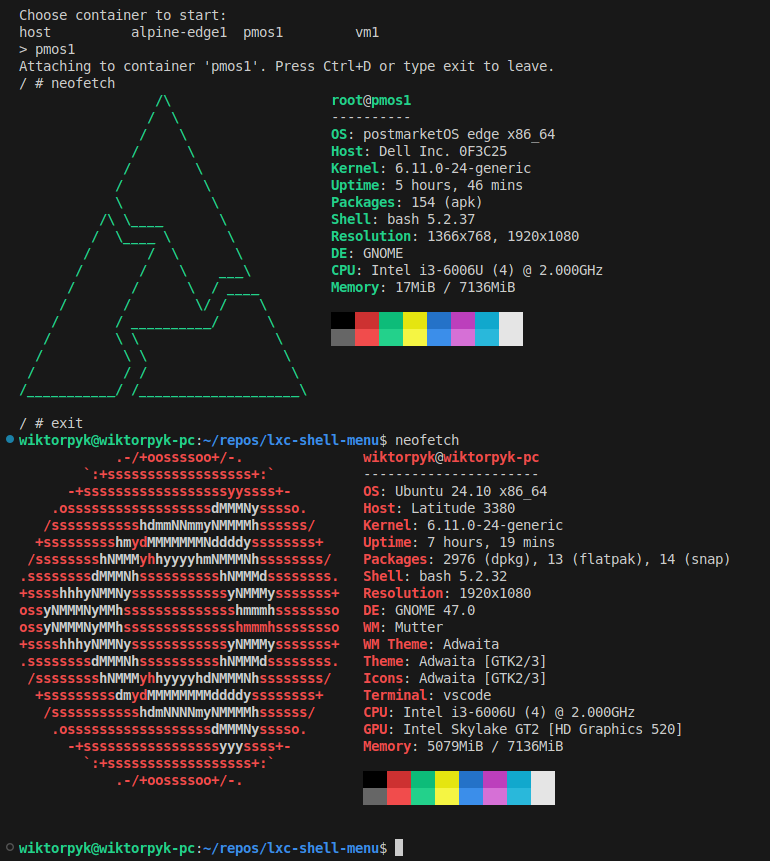
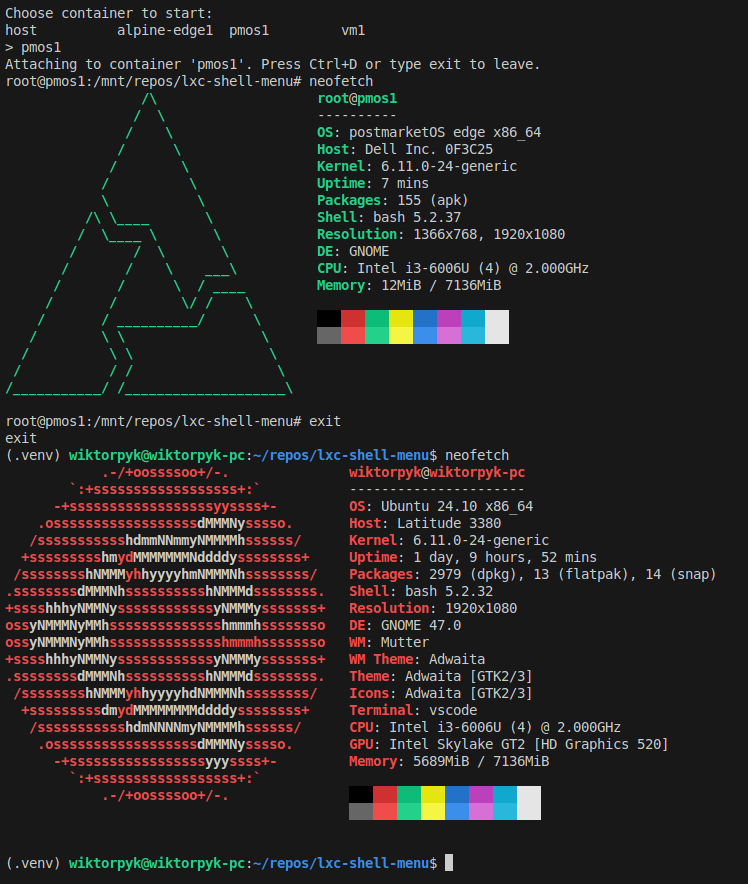
Added cwd transferring to container

diff --git a/lxc-shell-menu.py b/lxc-shell-menu.py
@@ -70,6 +70,20 @@ def install():
     except Exception as e:
         print(f"Error adding sudoers rule: {e}")
 
+def parse_mount_config(line):
+    parts = line.split()
+    if len(parts) >= 5:
+        host_path = parts[2].rstrip('/')
+        mount_target = parts[3].rstrip('/')     # this is the host-side mount dir
+        host_cwd = os.getcwd().rstrip('/')
+
+        if host_cwd.startswith(host_path):
+            rel = os.path.relpath(host_cwd, host_path)
+            mount_point = '/' + os.path.basename(mount_target)
+            container_path = os.path.join(mount_point, rel)
+            return container_path
+    return None
+
 def container_interface():
     if os.geteuid() != 0:
         subprocess.run(
@@ -120,28 +134,56 @@ def container_interface():
         print(''.join(row_items))
 
     while True:
-        choice = input("> ").strip()
-        if choice == "host":
+        container_name = input("> ").strip()
+        if container_name == "host":
             sys.exit(0)
-        elif choice in containers:
+        elif container_name in containers:
             break
         else:
-            print(f"Invalid choice: {choice}. Please choose from the list above.")
+            print(f"Invalid choice: {container_name}. Please choose from the list above.")
 
     try:
         subprocess.run(
-            ["lxc-start", choice], 
+            ["lxc-start", container_name], 
             check=True,
             stderr=subprocess.DEVNULL
         )
     except subprocess.CalledProcessError as e:
         sys.exit(e.returncode)
 
-    print(f"Attaching to container '{choice}'. Press Ctrl+D or type exit to leave.")
-    subprocess.run(
-        ["lxc-attach", "-n", choice], 
-        check=False
-    )
+    host_path = None
+    destination_path = None
+    config_path = f"/var/lib/lxc/{container_name}/config"
+
+    try:
+        with open(config_path, "r") as config_file:
+            for line in config_file:
+                if line.startswith("lxc.mount.entry"):
+                    destination_path = parse_mount_config(line)
+    except FileNotFoundError:
+        print(f"Config file not found: {config_path}")
+        return
+    except Exception as e:
+        print(f"Error: {e}")
+
+    if destination_path is None:
+        print(
+             "To persist your current working directory in the container, add the correct configuration to container's config file.\n"
+            f"The configuration file is located at {config_path}\n"
+             "Example:\n"
+            f"lxc.mount.entry = /home/{os.getlogin()}/ mnt/ none bind,create=dir 0 0\n"
+        )
+
+    print(f"Attaching to container '{container_name}'. Press Ctrl+D or type exit to leave.")
+    shell = "/bin/bash"
+    if destination_path is None:
+        subprocess.run(
+            ["lxc-attach", "-n", container_name, "--", shell]
+        )
+    else:
+        subprocess.run(
+            ["lxc-attach", "-n", container_name, "--", shell, "-c", f"cd {destination_path} && {shell}"]
+        )
 
 def main():
     capture_terminal_settings()

diff --git a/README.md b/README.md
@@ -11,19 +11,3 @@ git clone https://github.com/wiktorpp/lxc-shell-menu
 cd lxc-shell-menu
 python3 lxc-shell-menu.py --install
 ```
-
-## Usage
-
-After installation, open a new terminal window. The menu will display a list of available LXC containers:
-
-```
-wiktorpyk-pc login: wiktorpyk
-Password: 
-Choose container to start:
-host              vm1               vm2               vm3
-vm1
-Attaching to container 'vm1'. Press Ctrl+D or type exit to leave.
-root@vm1:/# exit
-exit
-wiktorpyk@wiktorpyk-pc:~$ 
-```
